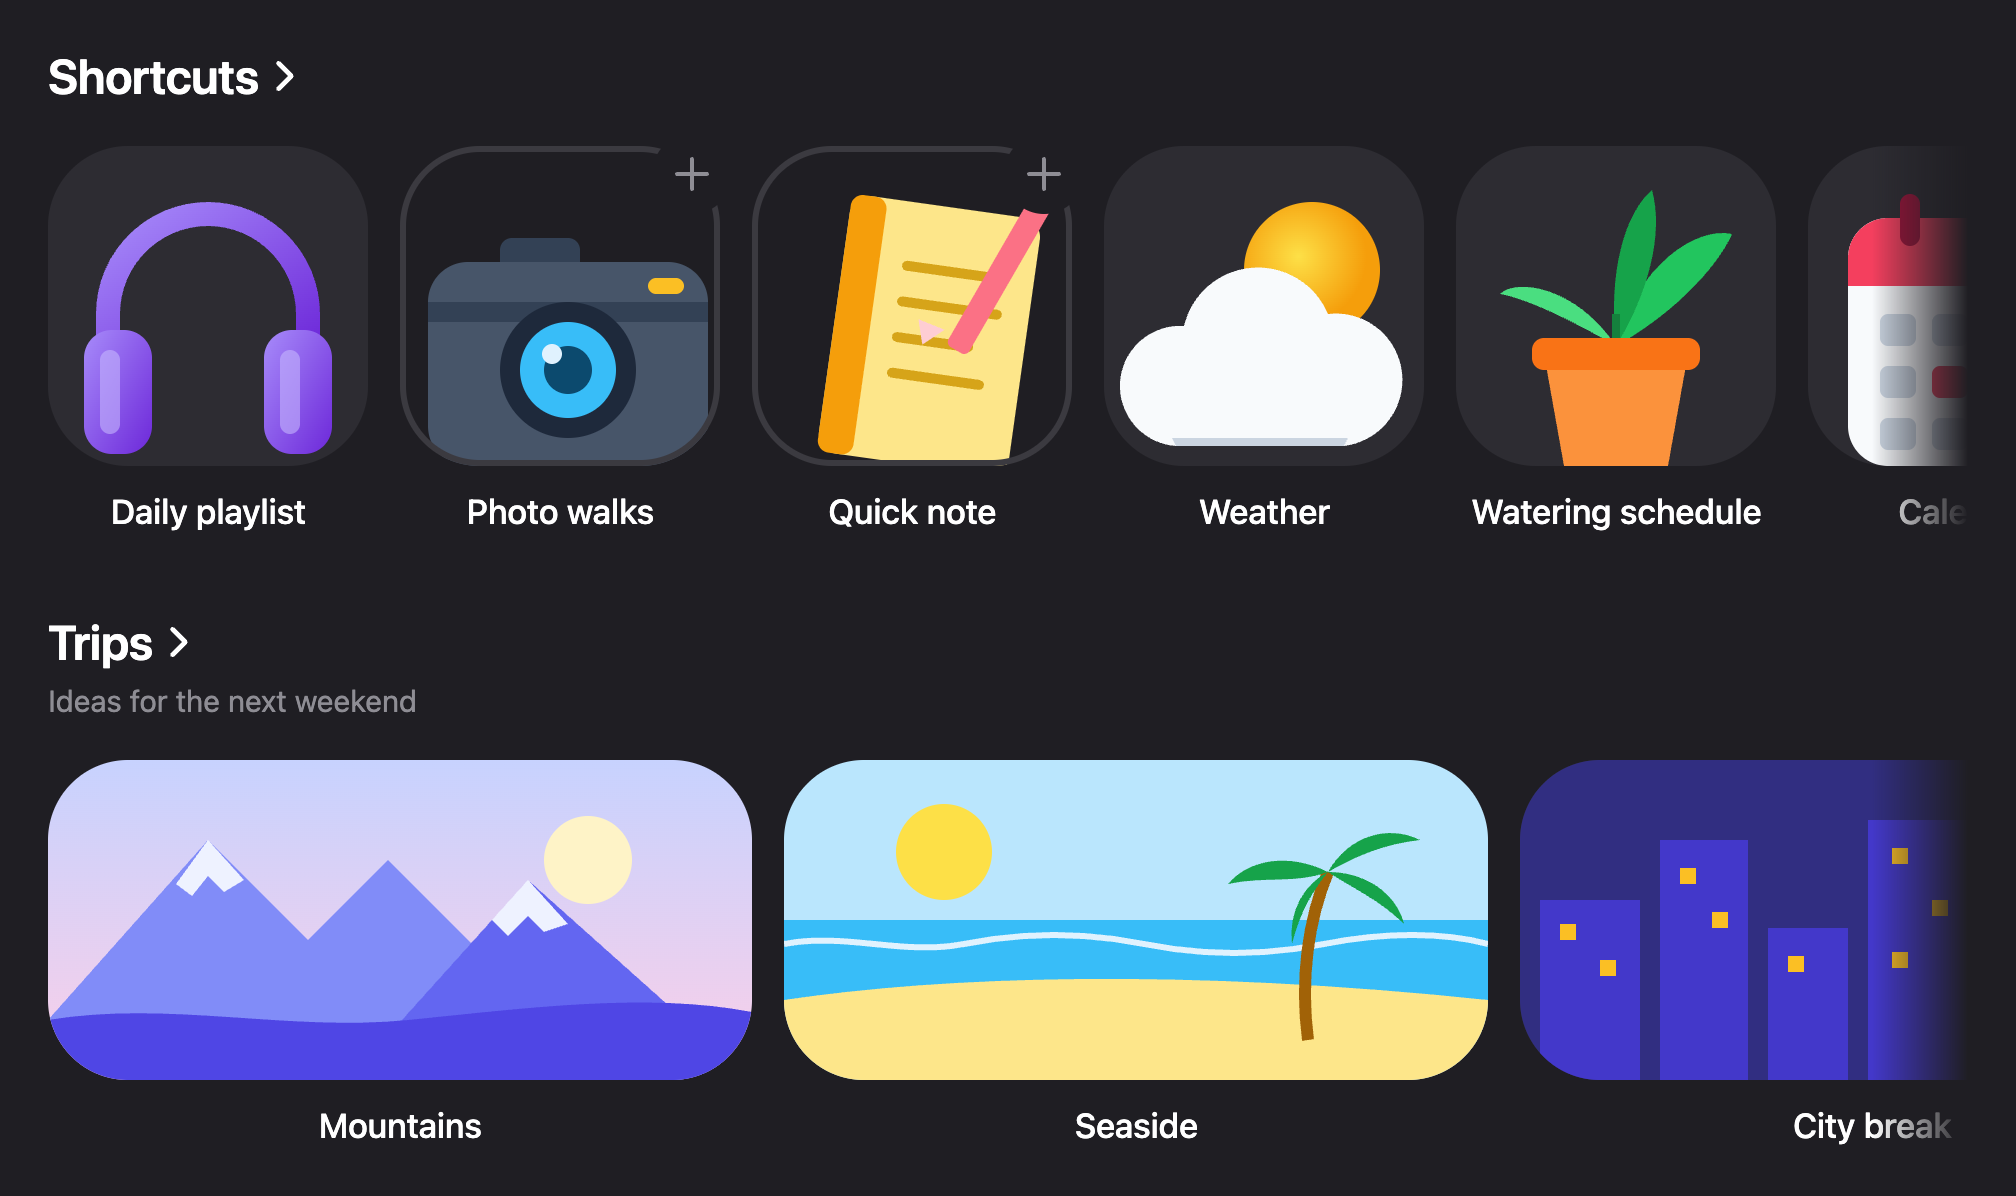
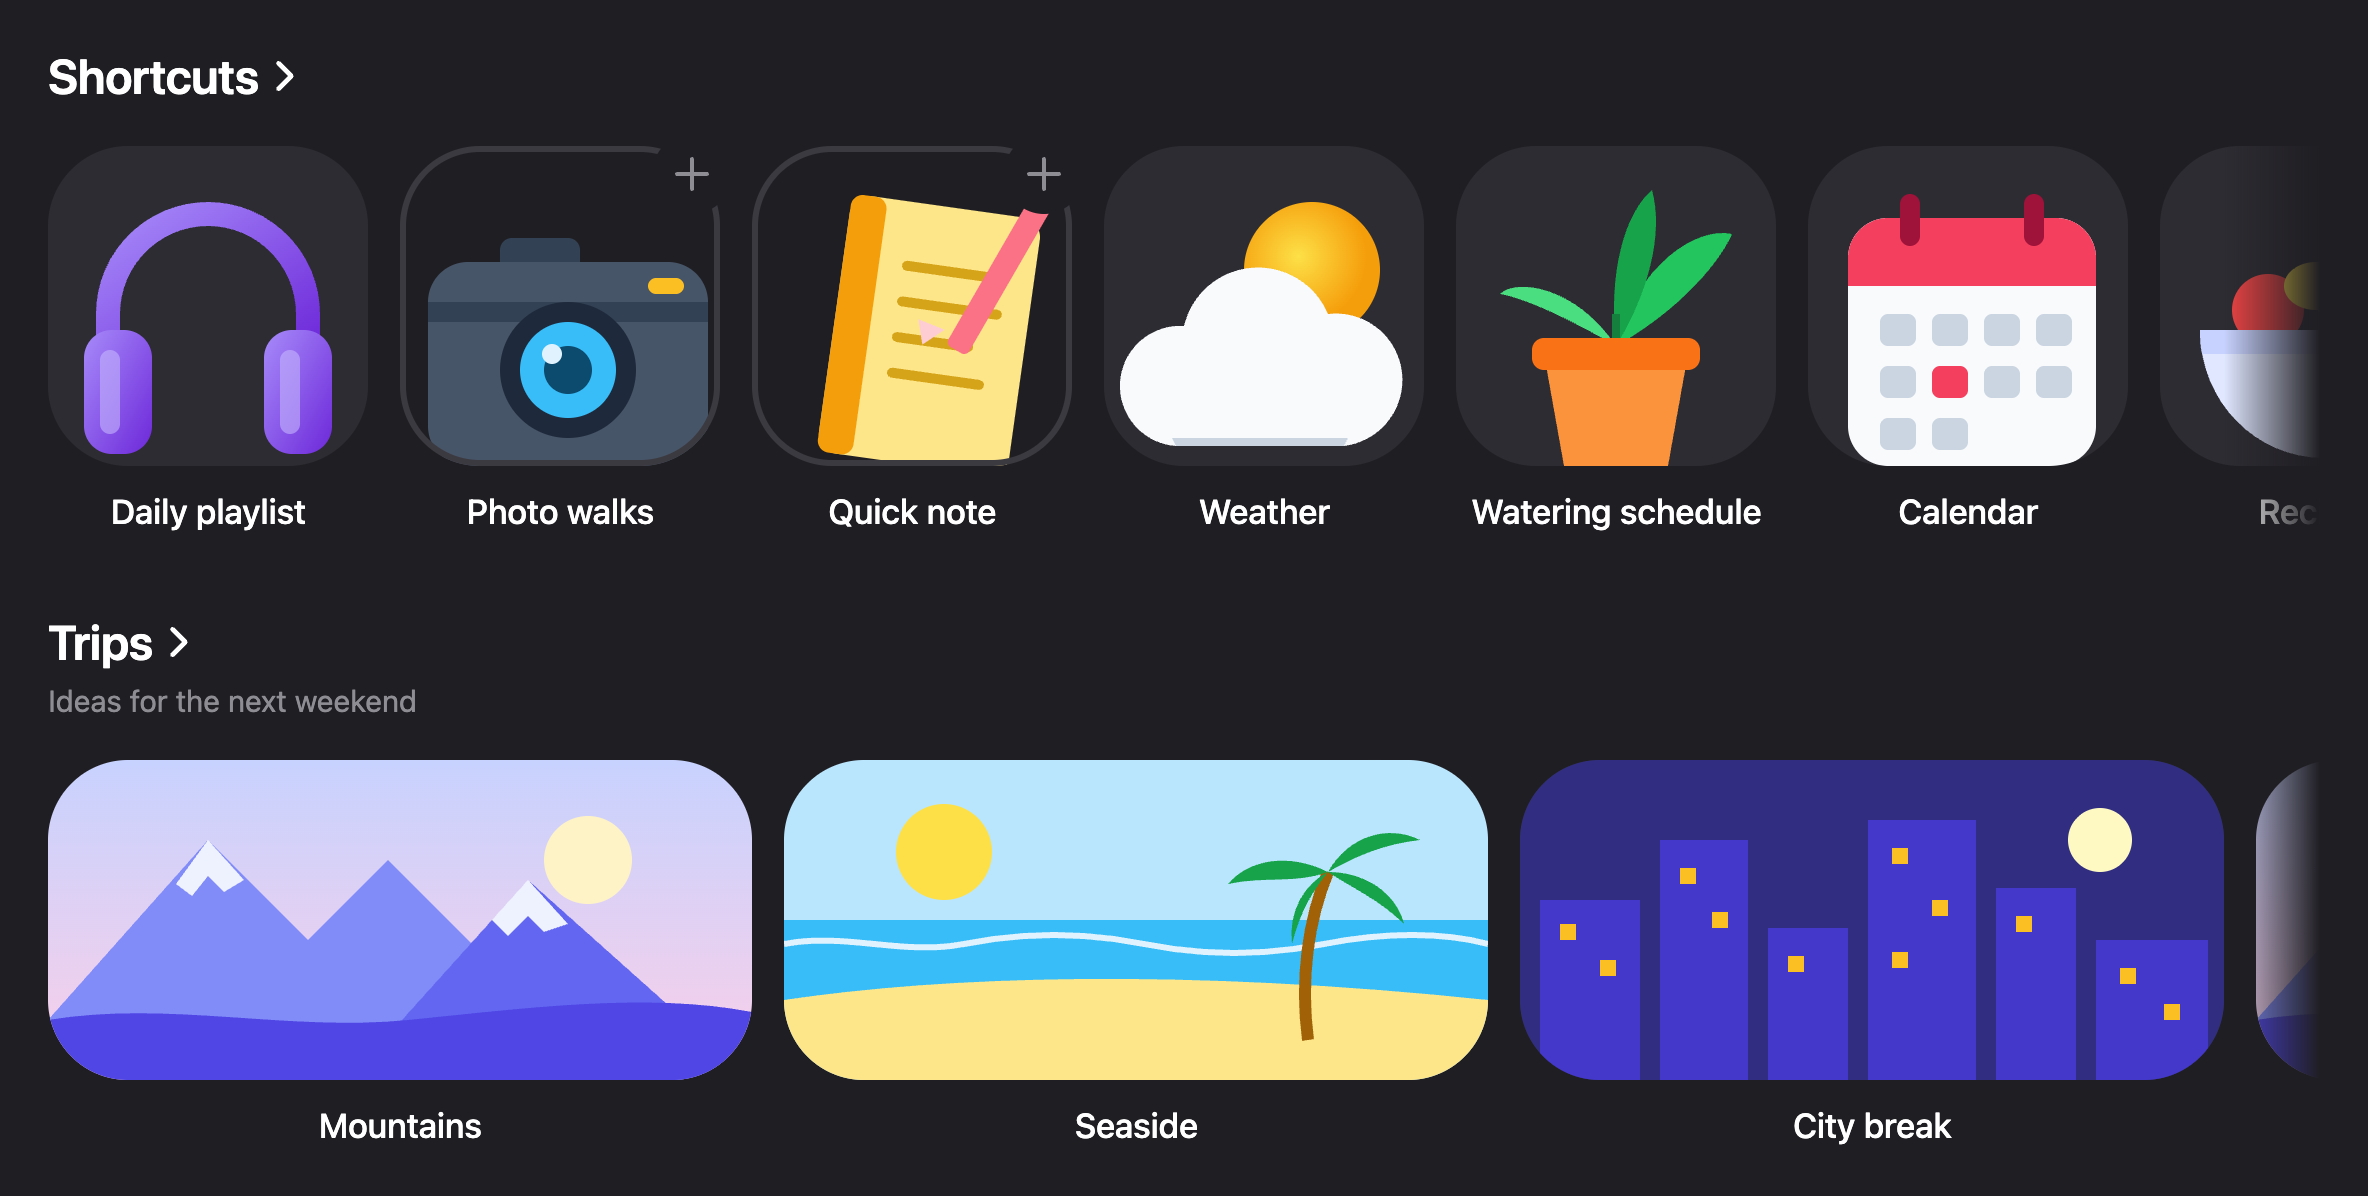
Let scroller examples span the full docs width
Several stories wrapped a Scroller in a fixed-width box, so inside the
wider docs canvas the strip faded out mid-block and looked cut off. The
strips now fill the width; text blocks below them keep their width.

diff --git a/src/components/Skeleton/Skeleton.stories.tsx b/src/components/Skeleton/Skeleton.stories.tsx
@@ -59,13 +59,19 @@ function LoadingDemo() {
   }, []);
 
   return (
-    <div
-      style={{ display: 'flex', flexDirection: 'column', gap: 32, maxWidth: 560 }}
-      aria-busy={!loaded}
-    >
+    <div style={{ display: 'flex', flexDirection: 'column', gap: 32 }} aria-busy={!loaded}>
       <Scroller aria-label="Shortcuts" controls="never">
         {loaded
-          ? ['headphones', 'camera', 'notebook', 'weather'].map((name) => (
+          ? [
+              'headphones',
+              'camera',
+              'notebook',
+              'weather',
+              'plant',
+              'calendar',
+              'bowl',
+              'books',
+            ].map((name) => (
               <TileButton
                 key={name}
                 label={name[0].toUpperCase() + name.slice(1)}
@@ -73,7 +79,7 @@ function LoadingDemo() {
                 imagePosition="bottom"
               />
             ))
-          : Array.from({ length: 4 }, (_, index) => (
+          : Array.from({ length: 8 }, (_, index) => (
               <div
                 key={index}
                 style={{ display: 'flex', flexDirection: 'column', gap: 12, alignItems: 'center' }}
@@ -84,7 +90,7 @@ function LoadingDemo() {
             ))}
       </Scroller>
       {loaded ? (
-        <List>
+        <List style={{ maxWidth: 560 }}>
           <ListItem
             icon="demo/star.svg"
             title="Pick what you're into"
@@ -98,7 +104,9 @@ function LoadingDemo() {
           <ListItem icon="demo/gift.svg" title="Invite a friend" subtitle="Share playlists" />
         </List>
       ) : (
-        <ListSkeleton />
+        <div style={{ maxWidth: 560 }}>
+          <ListSkeleton />
+        </div>
       )}
     </div>
   );

diff --git a/src/components/Scroller/Scroller.stories.tsx b/src/components/Scroller/Scroller.stories.tsx
@@ -39,26 +39,24 @@ const trips = [
 export const Playground: Story = {
   args: { 'aria-label': 'Shortcuts' },
   render: (args) => (
-    <div style={{ maxWidth: 900 }}>
-      <Scroller {...args}>
-        {shortcuts.map(({ label, image, add }) => (
-          <TileButton
-            key={label}
-            label={label}
-            image={image}
-            imagePosition="bottom"
-            variant={add ? 'outlined' : 'filled'}
-            badge={add ? <PlusIcon /> : undefined}
-          />
-        ))}
-      </Scroller>
-    </div>
+    <Scroller {...args}>
+      {shortcuts.map(({ label, image, add }) => (
+        <TileButton
+          key={label}
+          label={label}
+          image={image}
+          imagePosition="bottom"
+          variant={add ? 'outlined' : 'filled'}
+          badge={add ? <PlusIcon /> : undefined}
+        />
+      ))}
+    </Scroller>
   ),
 };
 
 export const Hub: Story = {
   render: () => (
-    <div style={{ display: 'flex', flexDirection: 'column', gap: 40, maxWidth: 960 }}>
+    <div style={{ display: 'flex', flexDirection: 'column', gap: 40 }}>
       <section style={{ display: 'flex', flexDirection: 'column', gap: 20 }}>
         <SectionHeader title="Shortcuts" href="#" />
         <Scroller aria-label="Shortcuts" style={{ '--vui-scroller-button-top': '80px' } as never}>

diff --git a/src/components/Chip/Chip.stories.tsx b/src/components/Chip/Chip.stories.tsx
@@ -22,19 +22,17 @@ const categories = ['All', 'Breakfast', 'Lunch', 'Dinner', 'Desserts', 'Drinks',
 function SingleChoiceDemo() {
   const [active, setActive] = useState('All');
   return (
-    <div style={{ maxWidth: 560 }}>
-      <Scroller aria-label="Categories" gap={8} controls="never" fade>
-        {categories.map((category) => (
-          <Chip
-            key={category}
-            selected={active === category}
-            onSelectedChange={() => setActive(category)}
-          >
-            {category}
-          </Chip>
-        ))}
-      </Scroller>
-    </div>
+    <Scroller aria-label="Categories" gap={8} fade>
+      {categories.map((category) => (
+        <Chip
+          key={category}
+          selected={active === category}
+          onSelectedChange={() => setActive(category)}
+        >
+          {category}
+        </Chip>
+      ))}
+    </Scroller>
   );
 }
 
